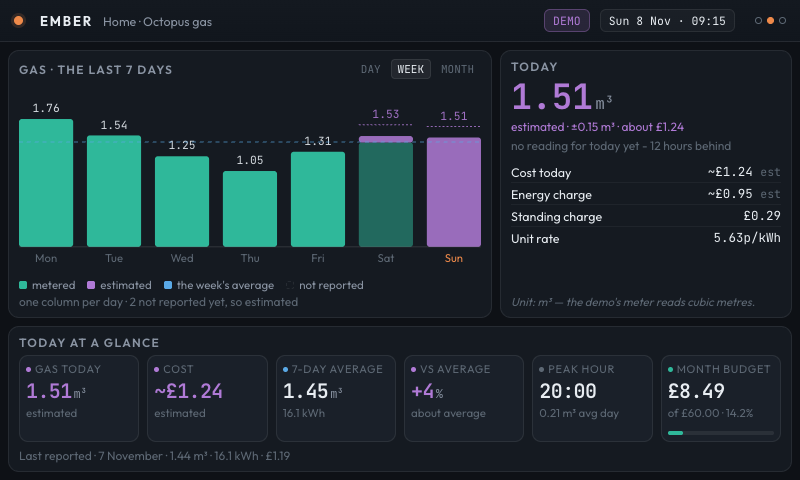
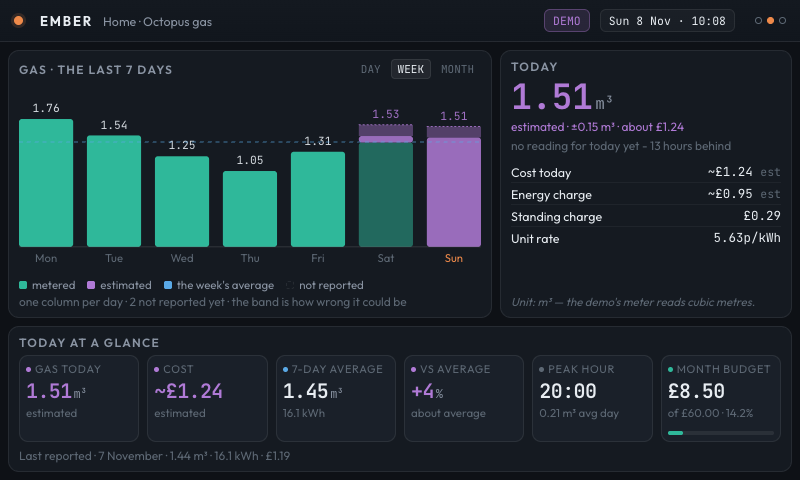
The band is drawn as a band
The week chart drew the band over an estimate as a single line at the
top of it, and the line read as another figure for the day. Sat's line
sat at the height of the tallest column in the chart, and it sat above
the week's average on a day whose estimate was below it - so the eye
had Sat as a big day when it was a small one.

The band is the estimate's own range - 1.96 sigma of the degree-day
model, about plus or minus 1.7 m3 on a typical week - and it is now
drawn as a shaded region behind the column. The line along its top is
the edge of that region and not a number.

Two things had to come with it. The chart is scaled to the highest
thing it draws, and the band is one of the things it draws: without
that, a band could run off the top of the chart, which is a band that
is not being shown. And the note under the chart now says what the band
is, because the legend has no room for it - two pixels, in fact - and a
new mark with no explanation is worse than no mark.

The note lost ", so estimated" to make room for that: the legend
already says plum is estimated, so it was saying it twice.

Six tests: the band is drawn behind the estimate, it reaches the top
of the range, the line along it is that top and not the estimate, it
has room in the chart, a metered day does not get one, and the note
says what it is and stays on one line.

diff --git a/ember/web/app.js b/ember/web/app.js
@@ -737,6 +737,11 @@ function chartWeekOfDays(gas, width, height) {
   const est = todayEstimate(gas);
   const average = gas.average_m3;
 
+  // The band on an estimate: how far off it could be. The day carries its
+  // own band when it has one, and today's estimate carries it otherwise.
+  const bandOf = (own) => (own !== undefined && own !== null
+    ? own : (est ? est.band : null));
+
   // Each column is one day. A finished day is the metered total. Today
   // is whatever the meter has reported so far, with the estimate for
   // the whole day drawn on top of it - because today is not over, and a
@@ -754,7 +759,7 @@ function chartWeekOfDays(gas, width, height) {
       const estimate = day.m3 || 0;
       return {
         day, isToday, measured, estimate,
-        band: day.band,
+        band: bandOf(day.band),
         total: Math.max(estimate, measured),
         known: true, estimated: true,
         partial: day.reported && day.complete === false,
@@ -765,6 +770,7 @@ function chartWeekOfDays(gas, width, height) {
       const estimate = est ? est.m3 : null;
       return {
         day, isToday, measured, estimate,
+        band: estimate !== null ? bandOf(null) : null,
         total: estimate !== null ? Math.max(estimate, measured) : measured,
         known: measured > 0 || estimate !== null,
       };
@@ -772,11 +778,12 @@ function chartWeekOfDays(gas, width, height) {
     if (!day.reported) {
       // The meter sent nothing for this day and the model has nothing
       // to say about it either. A gap, not a zero.
-      return { day, isToday, measured: 0, estimate: null, total: 0, known: false };
+      return { day, isToday, measured: 0, estimate: null, total: 0,
+               band: null, known: false };
     }
     return {
       day, isToday, measured: day.value || 0, estimate: null,
-      total: day.value || 0, known: true,
+      band: null, total: day.value || 0, known: true,
       // Reported, but not the whole day - the first day in the
       // store, say. The figure is real but it is a part.
       partial: day.complete === false
@@ -787,8 +794,13 @@ function chartWeekOfDays(gas, width, height) {
   // like a week of no gas, which is not what happened.
   if (!columns.some((column) => column.known)) return '';
 
+  // The band is drawn, so the chart has to have room for it. A band that
+  // runs off the top of the chart is a band that is not being shown.
   const peak = Math.max.apply(null,
-    columns.map((column) => column.total).concat([average || 0, 0.0001]));
+    columns.map((column) => column.total)
+      .concat(columns.map((column) => column.band === null
+        ? 0 : column.total + column.band))
+      .concat([average || 0, 0.0001]));
 
   const gap = 14;
   const barWidth = (width - gap * (week.length - 1)) / week.length;
@@ -810,33 +822,39 @@ function chartWeekOfDays(gas, width, height) {
         stroke-dasharray="3 3"/>`;
     } else {
       const measuredHeight = column.measured > 0 ? scale(column.measured) : 0;
+      const totalHeight = scale(column.total);
+      const from = baseline - measuredHeight;
+      const to = baseline - totalHeight;
+      // The band first, so it sits behind the column. It is how far off
+      // the estimate could be, and the column stands in front of the part
+      // of it below the estimate - so what shows is the room the estimate
+      // has above it, and the line along the top is the edge of that
+      // room rather than another figure for the day.
+      const band = column.estimate !== null ? column.band : null;
+      let bandTop = null;
+      if (band !== null && band !== undefined) {
+        bandTop = baseline - scale(column.total + band);
+        body += `<rect data-band="${Number(band).toFixed(2)}"
+          x="${x.toFixed(1)}" y="${bandTop.toFixed(1)}"
+          width="${barWidth.toFixed(1)}" height="${(to - bandTop).toFixed(1)}"
+          fill="var(--plum)" opacity=".4"/>`;
+      }
       if (measuredHeight > 0) {
         body += `<rect x="${x.toFixed(1)}" y="${(baseline - measuredHeight).toFixed(1)}"
           width="${barWidth.toFixed(1)}" height="${measuredHeight.toFixed(1)}"
           rx="3" fill="var(--teal)"${column.partial ? ' opacity=".5"' : ''}/>`;
       }
-      // The band, as a whisker over the top of the estimate. It says how
-      // far off the estimate could be, so the number has to clear it: a
-      // figure with a line through it reads as struck out.
-      const band = column.estimate !== null
-        ? (column.band !== undefined && column.band !== null
-          ? column.band : (est ? est.band : null))
-        : null;
-      // Where the number sits: above the bar, and above the whisker
-      // when there is one.
+      // Where the number sits: above the bar, and above the band when
+      // there is one. A figure with a line through it reads as struck out.
       let labelTop = baseline - scale(column.total);
       if (column.estimate !== null) {
         // The estimate sits on top of what has been measured, in plum -
         // the colour every estimate in Ember wears.
-        const totalHeight = scale(column.total);
-        const from = baseline - measuredHeight;
-        const to = baseline - totalHeight;
         if (to < from) {
           body += `<rect x="${x.toFixed(1)}" y="${to.toFixed(1)}" width="${barWidth.toFixed(1)}"
             height="${(from - to).toFixed(1)}" rx="3" fill="var(--plum)" opacity=".85"/>`;
         }
-        if (band) {
-          const bandTop = baseline - scale(column.total + band);
+        if (bandTop !== null) {
           body += `<line x1="${x.toFixed(1)}" y1="${bandTop.toFixed(1)}"
             x2="${(x + barWidth).toFixed(1)}" y2="${bandTop.toFixed(1)}"
             stroke="var(--plum)" stroke-width="1" stroke-dasharray="2 2" opacity=".8"/>`;
@@ -1013,11 +1031,16 @@ function gasChartPanel(gas) {
       '<span><i style="background:var(--ice)"></i>the week\'s average</span>' +
       '<span><i style="background:transparent;border:1px dashed var(--line)"></i>not reported</span>';
     const estimated = (gas.week || []).filter((day) => day.estimated).length;
-    // The legend already says what the dotted line is, so this only has
-    // to say what is new: how many of the columns are estimates rather
-    // than readings, and why.
+    // The legend says what the colours are, so this only has to say what
+    // the legend cannot: how many of the columns are estimates rather
+    // than readings, and what the band over them is. The band is a
+    // range - how far off the estimate could be - and the legend has no
+    // room for it.
     note = 'one column per day'
-      + (estimated ? ' &middot; ' + estimated + ' not reported yet, so estimated' : '');
+      + (estimated
+        ? ' &middot; ' + estimated + ' not reported yet'
+          + ' &middot; the band is how wrong it could be'
+        : '');
   }
 
   if (!body) {

diff --git a/tests/test_gas_views.py b/tests/test_gas_views.py
@@ -445,6 +445,177 @@ class TheWeekNumberTests(_GasViewsFixture, unittest.TestCase):
             self.assertGreaterEqual(column["labelY"], 12)
 
 
+class TheBandTests(_GasViewsFixture, unittest.TestCase):
+    """The band over an estimate is a range, and it has to be drawn as one.
+
+    The band used to be a single line at the top of the range, and it read
+    as another figure for the day. Sat's line sat at the height of the
+    tallest column in the chart, and the line was above the week's average
+    on a day whose estimate was below it - so the eye had Sat as a big day
+    when it was a small one.
+
+    The band is now drawn as a shaded range behind the column, so the line
+    along its top is the edge of a region and not a value.
+    """
+
+    # The chart's own arithmetic, so the test can say what the drawing
+    # should be and then check that it is.
+    HEIGHT = 180
+    BASELINE = HEIGHT - 20
+    TOP = 30
+
+    def _week(self):
+        """A week with two estimated days, and a known band."""
+        week = []
+        for index, (label, value) in enumerate(
+                [("Mon", 4.0), ("Tue", 5.0), ("Wed", 6.0),
+                 ("Thu", 5.0), ("Fri", 5.0)]):
+            week.append({"date": f"2026-11-0{index + 2}", "label": label,
+                         "value": value, "m3": value, "cost": value,
+                         "complete": True, "reported": True, "estimated": False})
+        week.append({"date": "2026-11-07", "label": "Sat", "value": 0.0,
+                     "m3": 4.0, "cost": 3.0, "band": 1.5, "complete": False,
+                     "reported": False, "estimated": True})
+        week.append({"date": "2026-11-08", "label": "Sun", "value": 0.0,
+                     "m3": 5.0, "cost": 4.0, "band": 1.5, "complete": False,
+                     "reported": False, "estimated": True})
+        return week
+
+    def _chart(self):
+        """The week view, drawn from the week above."""
+        page = self._page()
+        self._switch(page, "week")
+        page.evaluate(
+            """(gas) => {
+              state.payload.gas = Object.assign({}, state.payload.gas, gas);
+              render();
+            }""", {"week": self._week(), "average_m3": 5.0})
+        page.wait_for_timeout(300)
+        drawn = page.evaluate(
+            """() => Array.from(
+                 document.querySelectorAll('.slide .panel > svg g[data-day]'))
+                 .map((group) => {
+                   const band = group.querySelector('rect[data-band]');
+                   const column = Array.from(group.querySelectorAll('rect'))
+                     .find((r) => r.getAttribute('rx'));
+                   const line = group.querySelector('line[stroke="var(--plum)"]');
+                   return {
+                     day: group.getAttribute('data-day'),
+                     band: band ? {
+                       value: band.getAttribute('data-band'),
+                       y: parseFloat(band.getAttribute('y')),
+                       h: parseFloat(band.getAttribute('height')),
+                     } : null,
+                     columnTop: column
+                       ? parseFloat(column.getAttribute('y')) : null,
+                     lineY: line ? parseFloat(line.getAttribute('y1')) : null,
+                   };
+                 })""")
+        page.close()
+        # The chart is scaled to the highest thing it draws, and the band
+        # is one of the things it draws.
+        peak = max(6.0, 4.0 + 1.5, 5.0 + 1.5, 5.0)
+        return drawn, (self.BASELINE - self.TOP) / peak
+
+    def _day(self, drawn, date):
+        return next(column for column in drawn if column["day"] == date)
+
+    def test_the_band_is_drawn_behind_the_estimate(self):
+        """The column's top is the estimate; the band is the room above it."""
+        drawn, scale = self._chart()
+        sat = self._day(drawn, "2026-11-07")
+        self.assertIsNotNone(sat["band"], "Sat's estimate has no band drawn")
+        self.assertEqual(sat["band"]["value"], "1.50")
+        self.assertAlmostEqual(sat["columnTop"],
+                               self.BASELINE - 4.0 * scale, delta=0.1)
+        self.assertAlmostEqual(sat["band"]["y"],
+                               self.BASELINE - (4.0 + 1.5) * scale, delta=0.1)
+        # And the band comes down to the estimate, so the whole range is
+        # spoken for.
+        self.assertAlmostEqual(sat["band"]["y"] + sat["band"]["h"],
+                               sat["columnTop"], delta=0.1)
+
+    def test_the_line_along_the_band_is_its_top_and_not_a_value(self):
+        """The line is the edge of the range, and not a second figure."""
+        drawn, scale = self._chart()
+        sat = self._day(drawn, "2026-11-07")
+        self.assertAlmostEqual(sat["lineY"], sat["band"]["y"], delta=0.1)
+        # It is not at the estimate, which is what made it read as one.
+        # In SVG a smaller y is higher up, so the line is above the
+        # column's top by the width of the band.
+        self.assertAlmostEqual(sat["columnTop"] - sat["lineY"],
+                               1.5 * scale, delta=0.1)
+
+    def test_the_band_has_room_in_the_chart(self):
+        """A band that runs off the top of the chart is not being shown."""
+        drawn, scale = self._chart()
+        bands = [c for c in drawn if c["band"]]
+        self.assertTrue(bands, "no estimated day in the week view")
+        for column in bands:
+            self.assertGreaterEqual(column["band"]["y"], self.TOP - 0.01,
+                                    "the band runs off the top of the chart")
+
+    def test_a_day_that_was_measured_has_no_band(self):
+        """A reading is a reading. It does not get a band."""
+        drawn, scale = self._chart()
+        wed = self._day(drawn, "2026-11-04")
+        self.assertIsNone(wed["band"])
+        self.assertIsNone(wed["lineY"])
+
+    def _note(self, page):
+        """The note under the chart - not the one under another panel."""
+        return page.evaluate(
+            """() => {
+              const svg = document.querySelector('.slide .panel > svg');
+              const panel = svg.closest('.panel');
+              const notes = panel.querySelectorAll('.dimmer');
+              return notes[notes.length - 1].innerText;
+            }""")
+
+    def _note_lines(self, page):
+        """How many lines the note takes. A range over the text gives one
+        rectangle per line, which is the honest way to count them."""
+        return page.evaluate(
+            """() => {
+              const svg = document.querySelector('.slide .panel > svg');
+              const panel = svg.closest('.panel');
+              const notes = panel.querySelectorAll('.dimmer');
+              const range = document.createRange();
+              range.selectNodeContents(notes[notes.length - 1]);
+              return range.getClientRects().length;
+            }""")
+
+    def test_the_note_says_what_the_band_is(self):
+        """The legend has no room for the band, so the note has to say it."""
+        page = self._page()
+        self._switch(page, "week")
+        page.evaluate(
+            """(gas) => {
+              state.payload.gas = Object.assign({}, state.payload.gas, gas);
+              render();
+            }""", {"week": self._week(), "average_m3": 5.0})
+        page.wait_for_timeout(300)
+        note = self._note(page)
+        lines = self._note_lines(page)
+        page.close()
+        self.assertIn("band", note.lower())
+
+    def test_the_note_stays_on_one_line(self):
+        """A note that wraps pushes the panel down, and a note that fits by
+        a pixel is a note that wraps as soon as the wording changes."""
+        page = self._page()
+        self._switch(page, "week")
+        page.evaluate(
+            """(gas) => {
+              state.payload.gas = Object.assign({}, state.payload.gas, gas);
+              render();
+            }""", {"week": self._week(), "average_m3": 5.0})
+        page.wait_for_timeout(300)
+        lines = self._note_lines(page)
+        page.close()
+        self.assertEqual(lines, 1, "the note under the chart wrapped")
+
+
 class GapHonestyTests(_GasViewsFixture, unittest.TestCase):
     """A day the meter did not report is drawn as a gap."""
 

diff --git a/README.md b/README.md
@@ -290,11 +290,23 @@ is the question that panel was missing.
 
 **A day the meter has not reported is never drawn as a zero.** Zero means no
 gas was used, which would be a lie. In the week view the column is drawn in
-**plum** with the band's whisker over the top, and a day with *part* of a
-reading keeps that part in teal, faded, under the estimate. In the month view
-it is a **dashed cell**, because the calendar's job is to show the pattern of
-the month, and the pattern includes a meter exchange. The legend under the
-chart says which is which.
+**plum**, and the **band** behind it is how far off the estimate could be — a
+shaded range, so the line along its top is the edge of a range and not
+another figure for the day. A day with *part* of a reading keeps that part in
+teal, faded, under the estimate. In the month view it is a **dashed cell**,
+because the calendar's job is to show the pattern of the month, and the
+pattern includes a meter exchange. The legend under the chart says which is
+which.
+
+**The band is the estimate's own range.** It is the 95% confidence band of the
+degree-day model — 1.96σ, and about ±1.7 m³ on a typical week — so it says
+how far off the estimate could be. It used to be drawn as a single line at the
+top of that range, and it read as another figure for the day: the line sat at
+the height of the tallest column in the chart, and above the week's average on
+a day whose estimate was below it. It is now a shaded range behind the column,
+so the line along its top is the edge of a region rather than a number. The
+chart is scaled to fit the band as well as the columns, because a band that
+runs off the top of the chart is a band that is not being shown.
 
 **Today's figures** are the day's volume and what it cost, broken down into
 the energy charge and the standing charge — the two add up to the cost above
